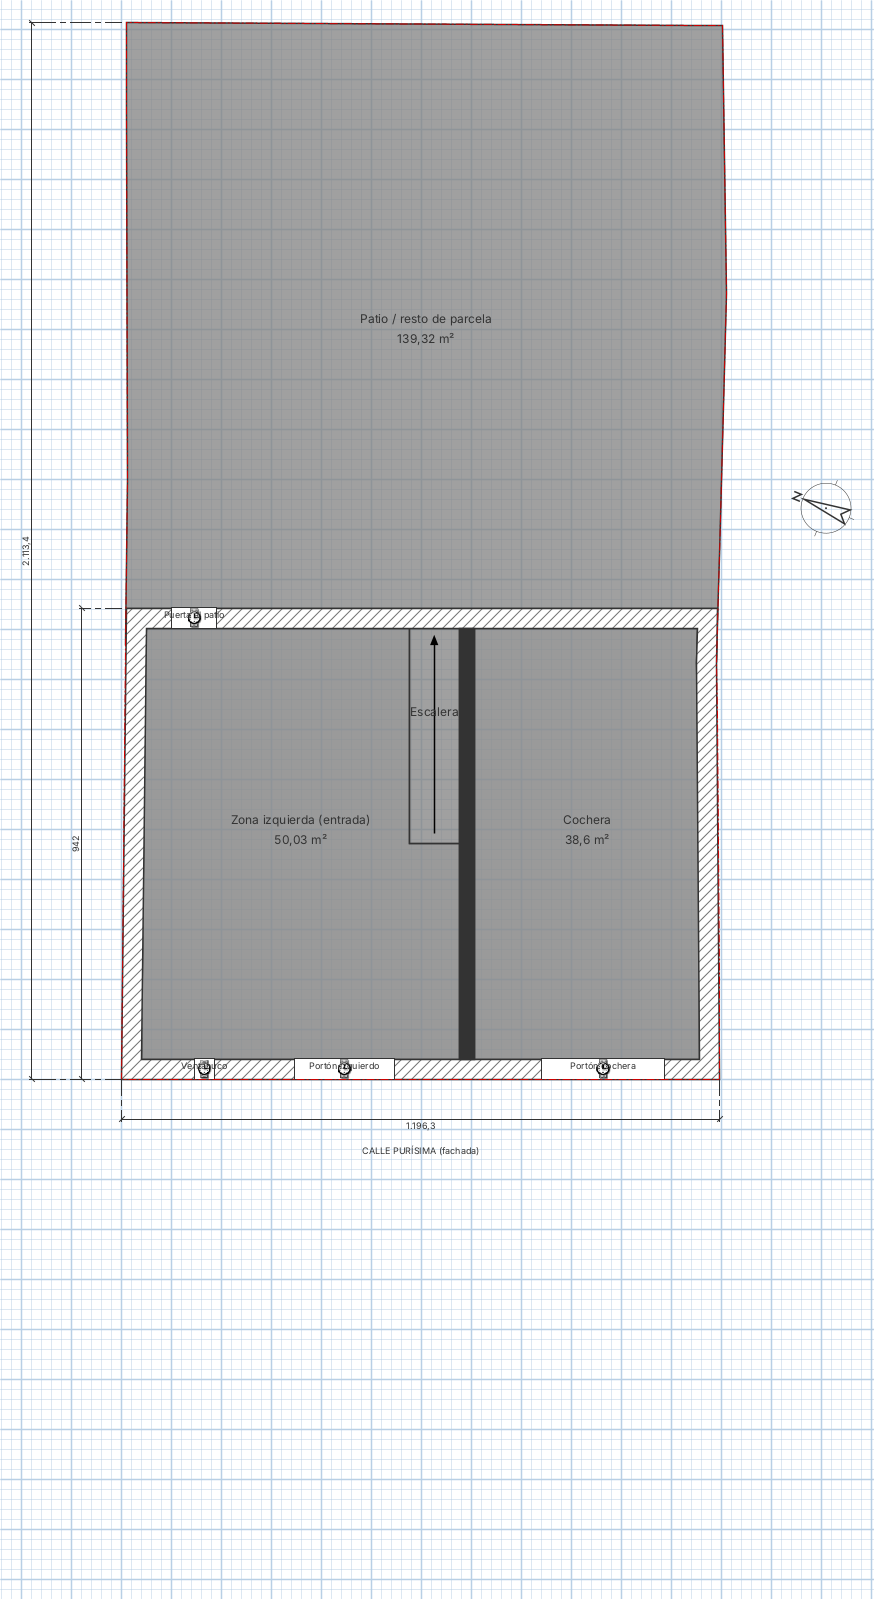
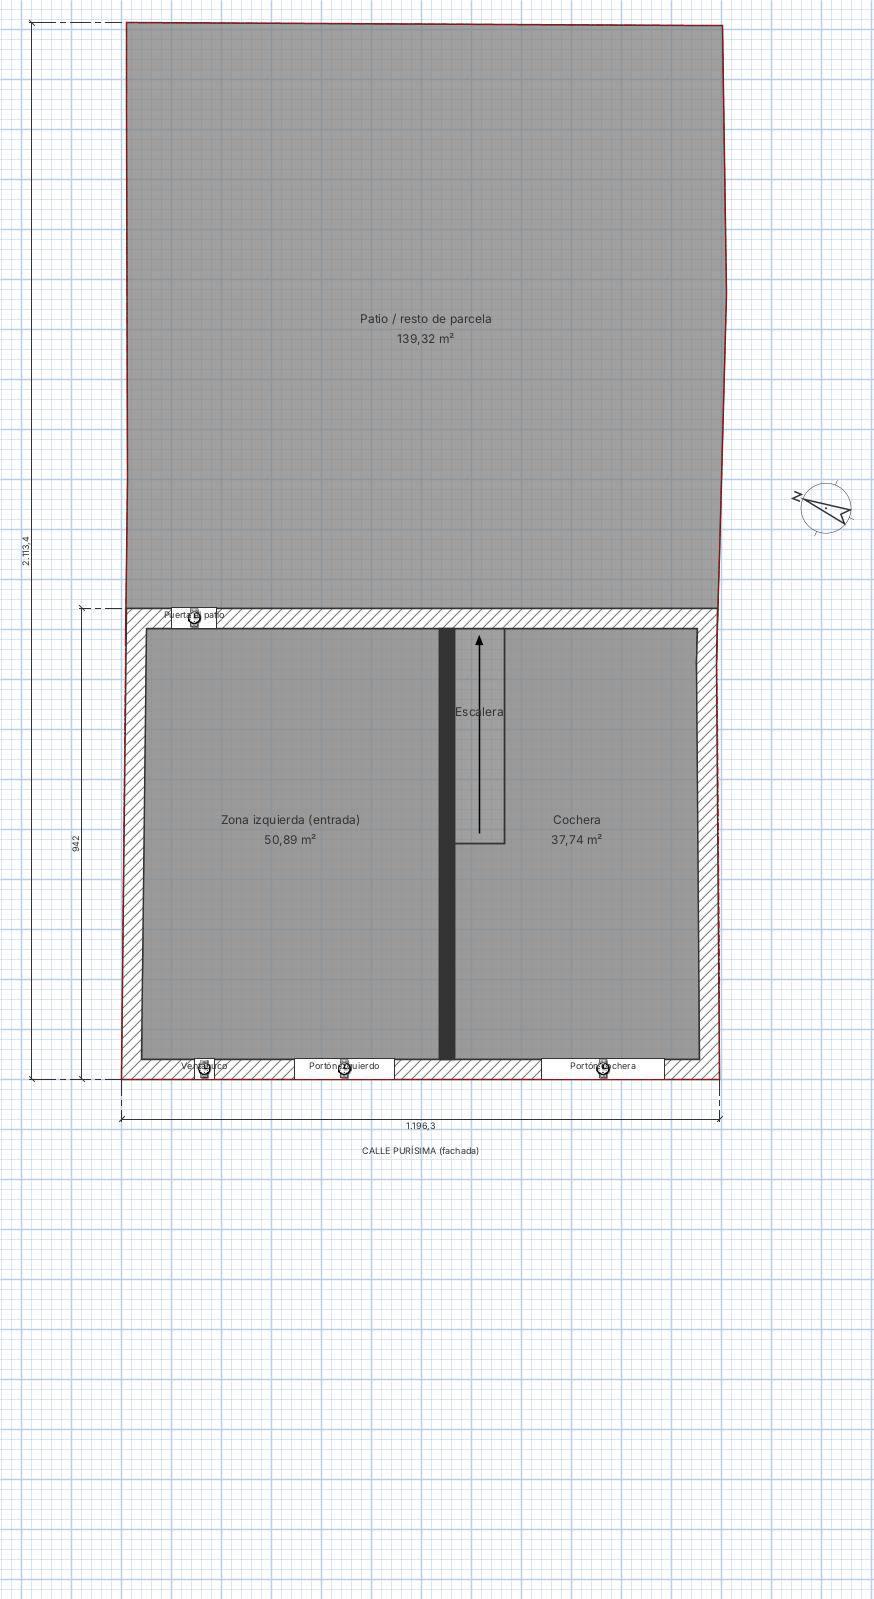
Mueve el muro central a x=6,50 m y la escalera al lado de la cochera
Claude-Session: https://claude.ai/code/session_01BqJQ7yCwWW4P55yjYQnWAv

Changed region(s): [[0.4634, 0.3677, 0.587, 0.6742], [0.6487, 0.521, 0.6796, 0.5516], [0.3398, 0.4903, 0.3707, 0.521]]

diff --git a/docs/ESTADO.md b/docs/ESTADO.md
@@ -47,10 +47,10 @@ Las superficies de cada estancia están en [`salida/superficies.md`](../salida/s
 
 **Planta baja** (altura 3,20 m, aprox):
 
-- Muro central existente de 30 cm en `x = 6,90 m`, que va de la fachada al fondo.
-- **Zona izquierda (entrada)**: unos 50 m². Al fondo, a la izquierda, tiene la puerta al patio.
-- **Cochera** a la derecha: unos 38,6 m².
-- **Escalera** de 1,00 m de ancho, junto al muro central por el lado izquierdo. Va desde la mitad de la casa hasta el muro del fondo y sube hacia el fondo.
+- Muro central existente de 30 cm en `x = 6,50 m`, que va de la fachada al fondo (posición ajustada por Edu el 24/10).
+- **Zona izquierda (entrada)**: unos 51 m². Al fondo, a la izquierda, tiene la puerta al patio.
+- **Cochera** a la derecha: unos 37,7 m² (sin contar la escalera).
+- **Escalera** de 1,00 m de ancho, junto al muro central por el **lado de la cochera**. Va desde la mitad de la casa hasta el muro del fondo y sube hacia el fondo.
 - Fachada: ventanuco, portón izquierdo (2,00 m) y portón de la cochera (2,45 m). Posiciones medidas sobre la foto, aproximadas.
 
 **Primer piso** (altura 3,00 m hasta la cubierta, aprox; forjado de 25 cm):
@@ -76,7 +76,7 @@ Cada punto debería confirmarse o corregirse:
    Para corregirlo basta con poner el fondo real en `edificio.fondo` de `casa.yaml`, en lugar de `auto`.
 2. **Lado de la fachada.** Se ha supuesto que la fachada a la calle es el lindero **oeste** de la parcela (vértices 10 → 9 del catastro), porque es el lado recto de unos 12 m. Si fuera el este, se cambia `parcela.fachada` a `[1, 14]` o el par que corresponda.
 3. **Alturas** de planta (3,20 y 3,00 m) y grosor de los muros (40 cm): estimadas.
-4. **Posición del muro central** (`x = 6,90 m`): estimada a partir de la foto, entre los dos portones.
+4. **Posición del muro central** (`x = 6,50 m`): estimada a partir de la foto y ajustada por Edu, sin medir.
 5. **Escalera**: con unos 4,3 m de recorrido para salvar unos 3,45 m de altura sale muy empinada (unos 21–22 cm por peldaño). Seguramente habrá que alargarla, hacerla en L o moverla. Es una de las primeras cosas a decidir al distribuir.
 6. **Pilares**: no se conocen. Se añadirán cuando Edu tenga los datos.
 7. **Cubierta**: no está modelada; el primer piso llega hasta 3,00 m.

diff --git a/salida/superficies.md b/salida/superficies.md
@@ -12,8 +12,8 @@ Generado automáticamente por `tools/generar_sh3d.py` a partir de `casa.yaml`. N
 
 | Estancia | Superficie útil (m²) |
 |---|---|
-| Zona izquierda (entrada) | 50.0 |
-| Cochera | 38.6 |
+| Zona izquierda (entrada) | 50.9 |
+| Cochera | 37.7 |
 | Escalera (sube hacia el fondo) | 4.3 |
 | **Superficie útil interior total** | **95.5** |
 | Superficie construida (catastro) | 111.9 |
